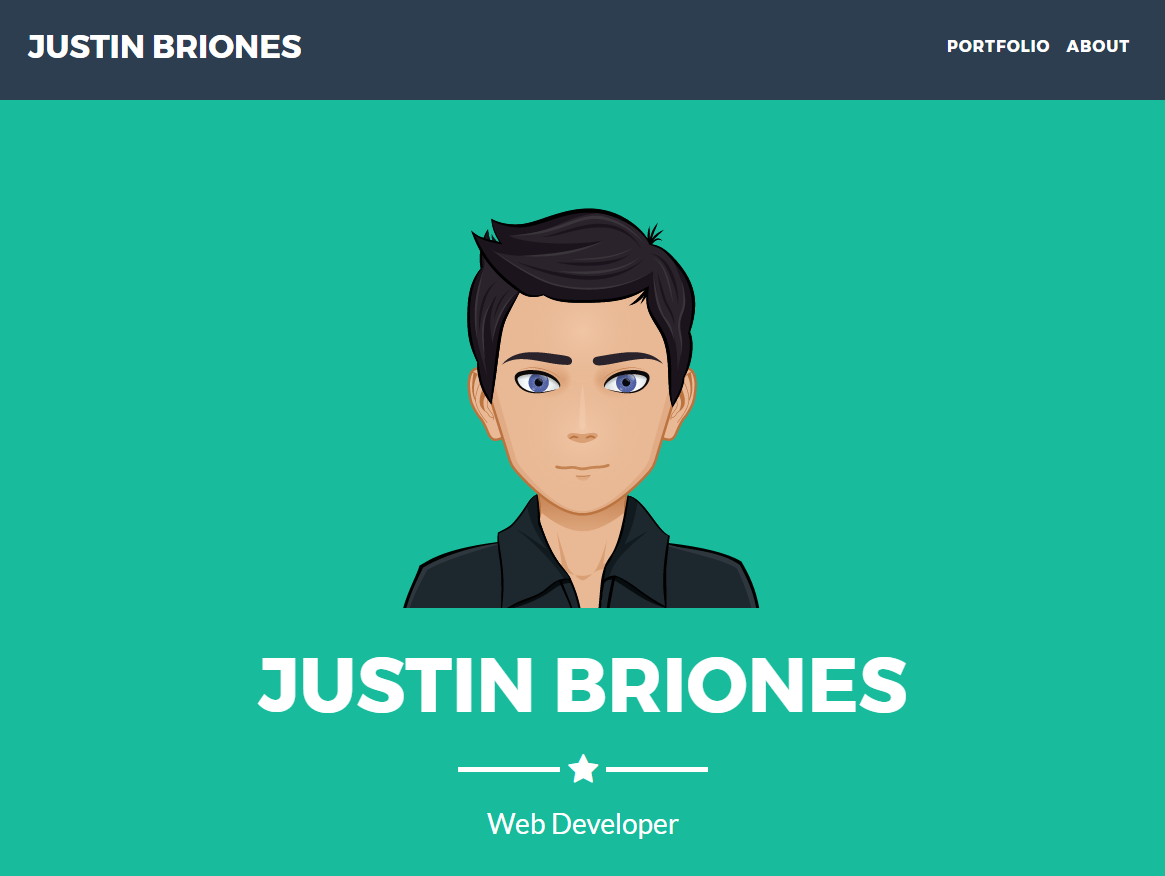
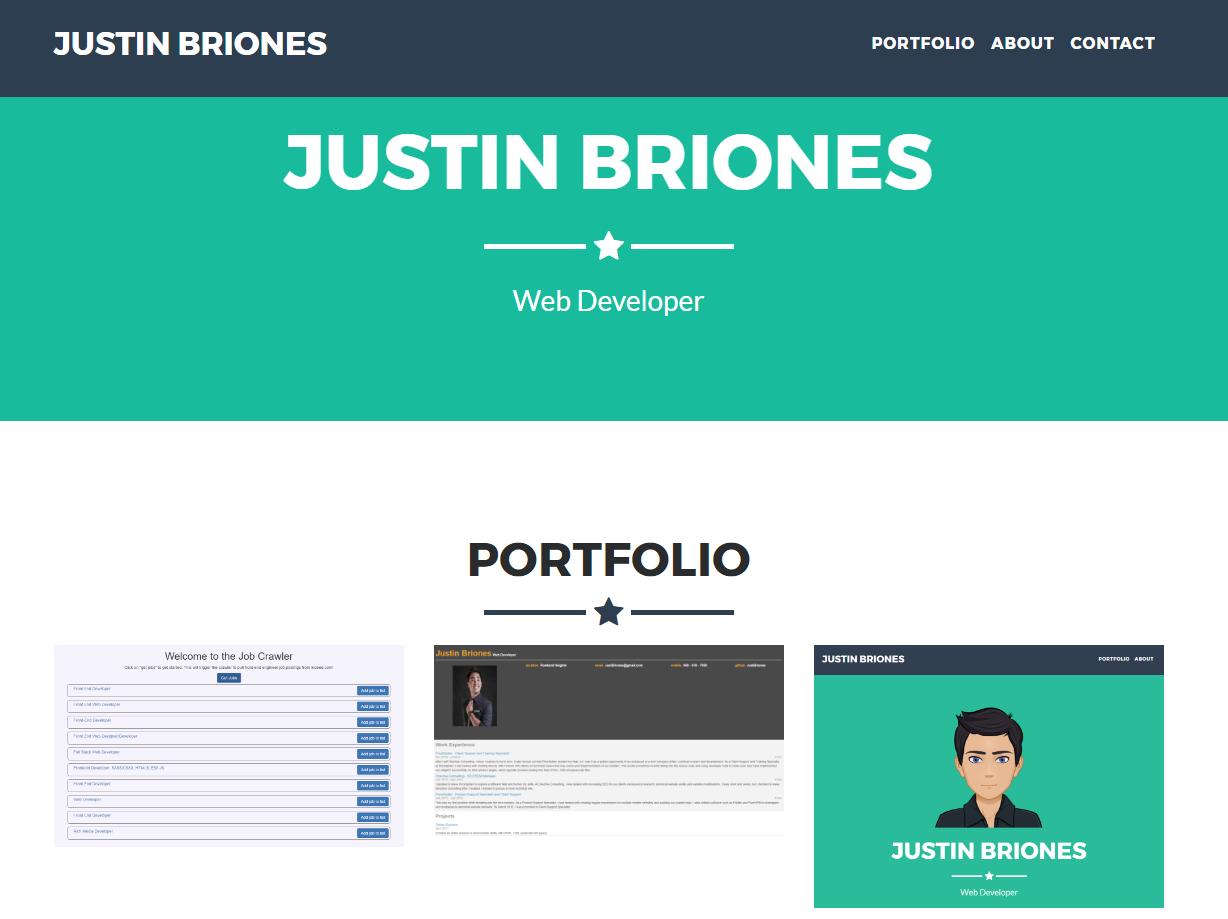
removed photo, added portfolio item 3, finished crawler

diff --git a/index.html b/index.html
@@ -64,7 +64,7 @@
     <!-- Header -->
     <header class="masthead">
         <div class="container">
-            <img class="img-fluid" src="img/profile.png" alt="">
+            <!-- <img class="img-fluid" src="img/profile.png" alt=""> -->
             <div class="intro-text">
                 <span class="name">Justin Briones</span>
                 <hr class="star-light">
@@ -79,8 +79,20 @@
             <h2 class="text-center">Portfolio</h2>
             <hr class="star-primary">
             <div class="row">
+
+              <div class="col-sm-4 portfolio-item">
+                  <div class="portfolio-link" href="#portfolioModal1" data-toggle="modal">
+                      <div class="caption">
+                          <div class="caption-content">
+                              <i class="fa fa-search-plus fa-3x"></i>
+                          </div>
+                      </div>
+                      <img class="img-fluid" src="img/portfolio/crawler.PNG" alt="">
+                  </div>
+              </div>
+
                 <div class="col-sm-4 portfolio-item">
-                    <div class="portfolio-link" href="#portfolioModal1" data-toggle="modal">
+                    <div class="portfolio-link" href="#portfolioModal2" data-toggle="modal">
                         <div class="caption">
                             <div class="caption-content">
                                 <i class="fa fa-search-plus fa-3x"></i>
@@ -89,8 +101,9 @@
                         <img class="img-fluid" src="img/portfolio/onlineResume.PNG" alt="">
                     </div>
                 </div>
+
                 <div class="col-sm-4 portfolio-item">
-                    <div class="portfolio-link" href="#portfolioModal2" data-toggle="modal">
+                    <div class="portfolio-link" href="#portfolioModal3" data-toggle="modal">
                         <div class="caption">
                             <div class="caption-content">
                                 <i class="fa fa-search-plus fa-3x"></i>
@@ -191,6 +204,33 @@
                     <div class="row">
                         <div class="col-lg-8 offset-lg-2">
                             <div class="modal-body">
+                                <h2>Job List Crawler</h2>
+                                <hr class="star-primary">
+                                <img class="img-fluid img-centered" src="img/portfolio/crawler.PNG" alt="">
+                                <p>This is a website crawler that crawls indeed.com for front-engineer job postings using Node.js and Angular.js. Here's the <a href="https://github.com/JustBriones/crawler1">repository</a> for your reference.</p>
+                                <button class="btn btn-success" type="button" data-dismiss="modal"><i class="fa fa-times"></i> Close</button>
+                            </div>
+                        </div>
+                    </div>
+                </div>
+            </div>
+        </div>
+    </div>
+
+
+    <div class="portfolio-modal modal fade" id="portfolioModal2" tabindex="-1" role="dialog" aria-hidden="true">
+        <div class="modal-dialog" role="document">
+            <div class="modal-content">
+                <div class="close-modal" data-dismiss="modal">
+                    <div class="lr">
+                        <div class="rl">
+                        </div>
+                    </div>
+                </div>
+                <div class="container">
+                    <div class="row">
+                        <div class="col-lg-8 offset-lg-2">
+                            <div class="modal-body">
                                 <h2>Online Resume</h2>
                                 <hr class="star-primary">
                                 <img class="img-fluid img-centered" src="img/portfolio/onlineResume.PNG" alt="">
@@ -204,7 +244,8 @@
         </div>
     </div>
 
-    <div class="portfolio-modal modal fade" id="portfolioModal2" tabindex="-1" role="dialog" aria-hidden="true">
+
+    <div class="portfolio-modal modal fade" id="portfolioModal3" tabindex="-1" role="dialog" aria-hidden="true">
         <div class="modal-dialog" role="document">
             <div class="modal-content">
                 <div class="close-modal" data-dismiss="modal">
@@ -229,6 +270,7 @@
             </div>
         </div>
     </div>
+
 
     <!-- Bootstrap core JavaScript -->
     <script src="vendor/jquery/jquery.min.js"></script>
